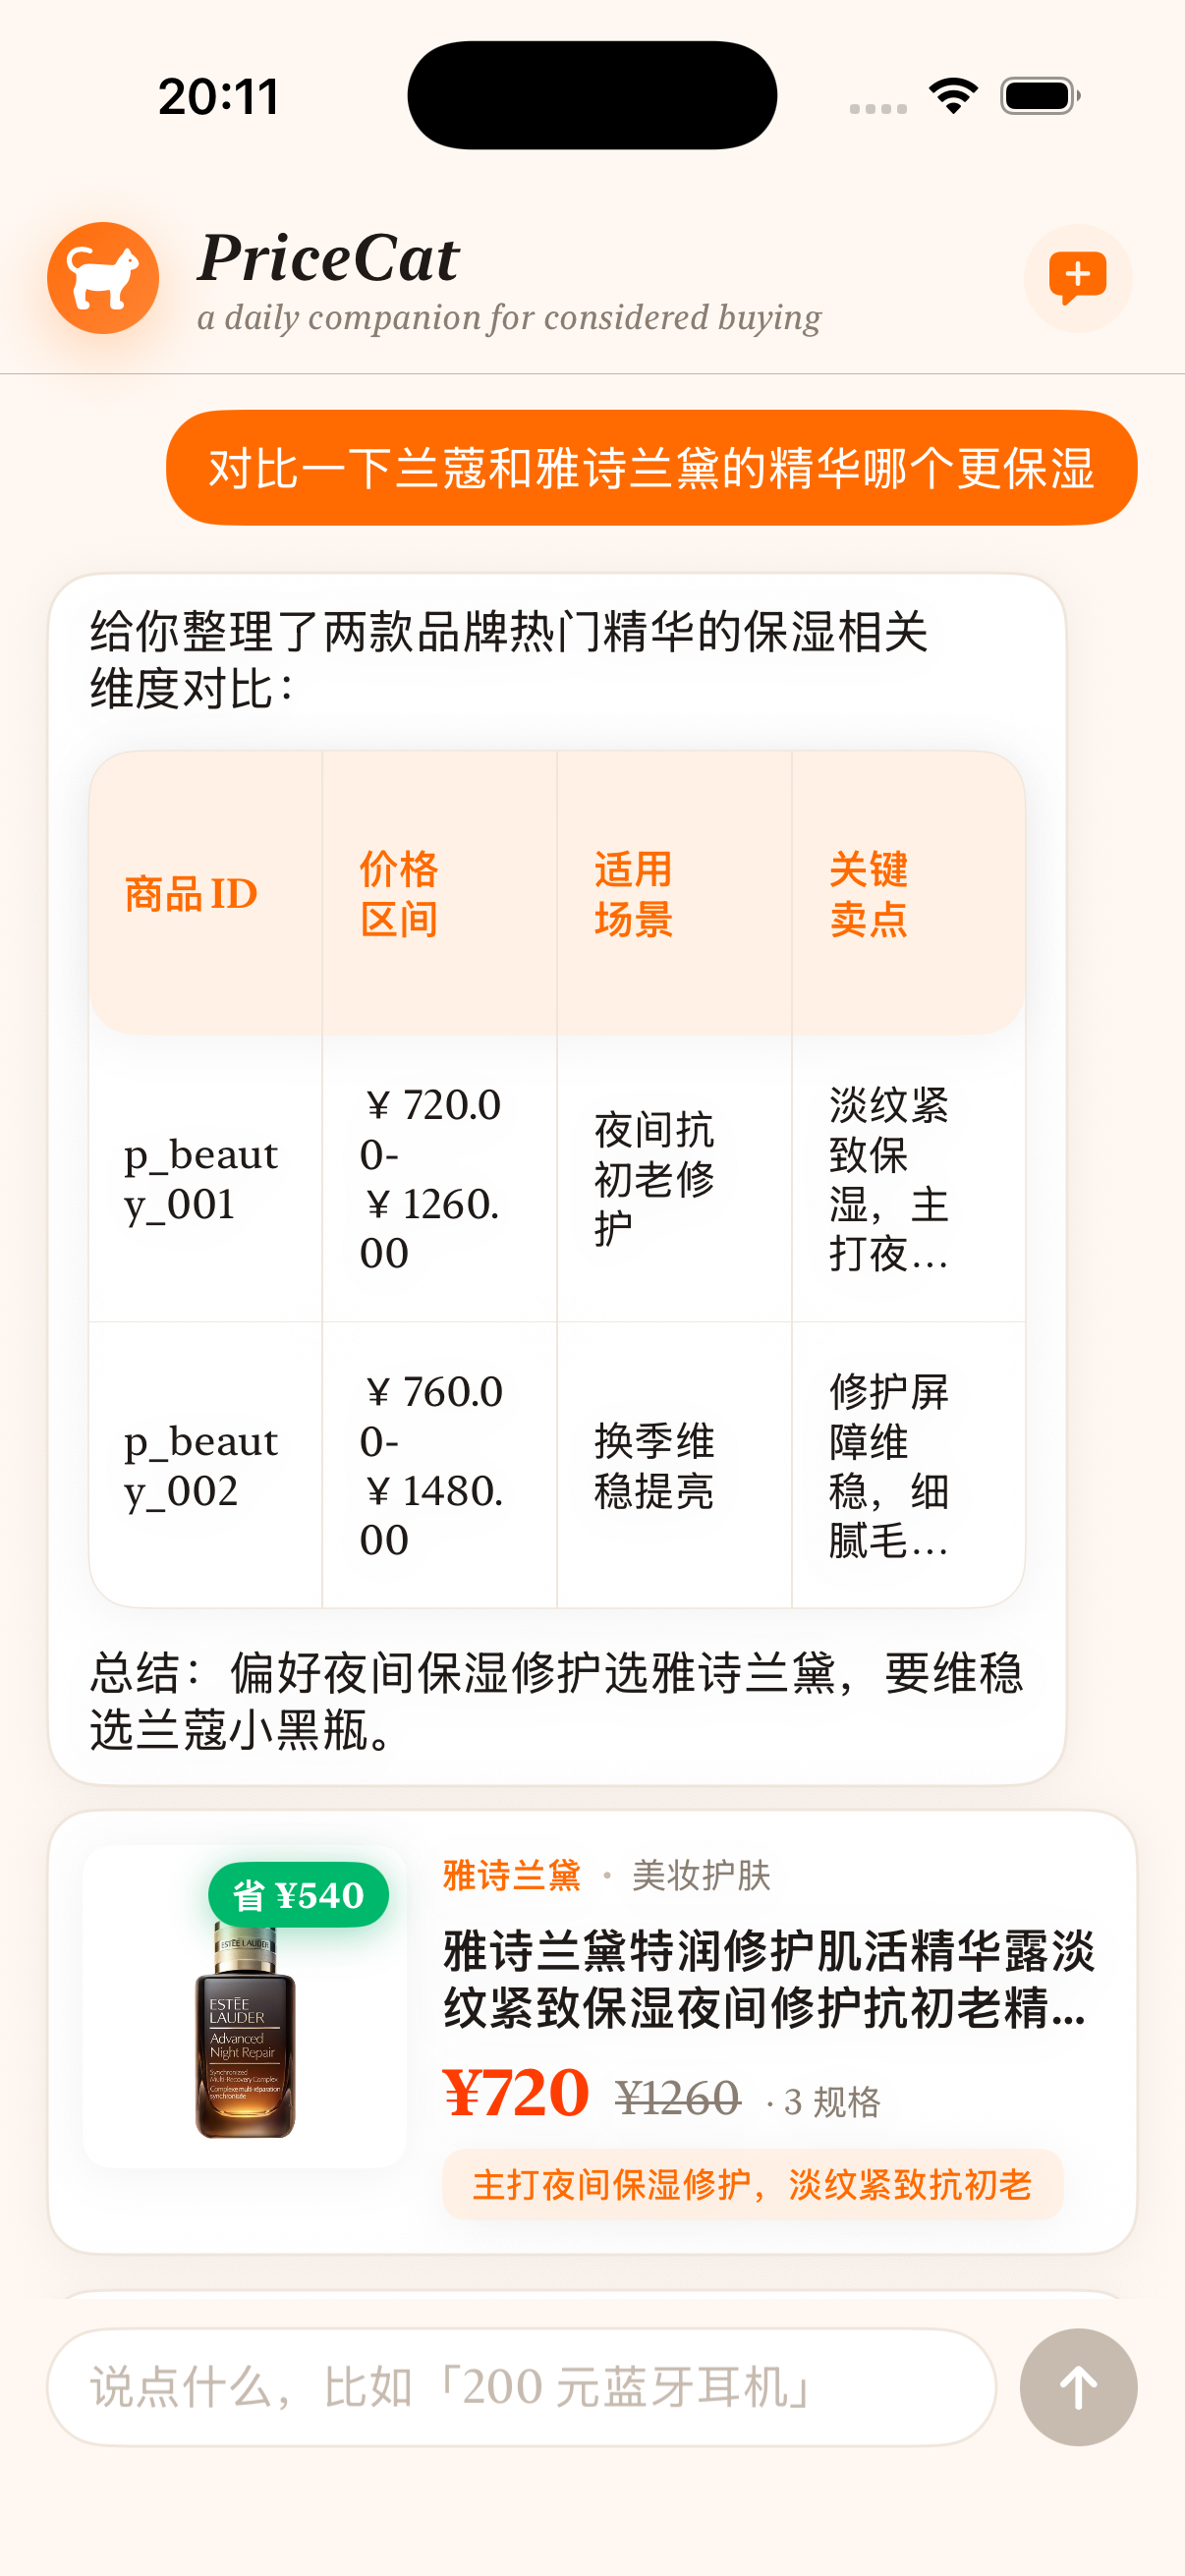
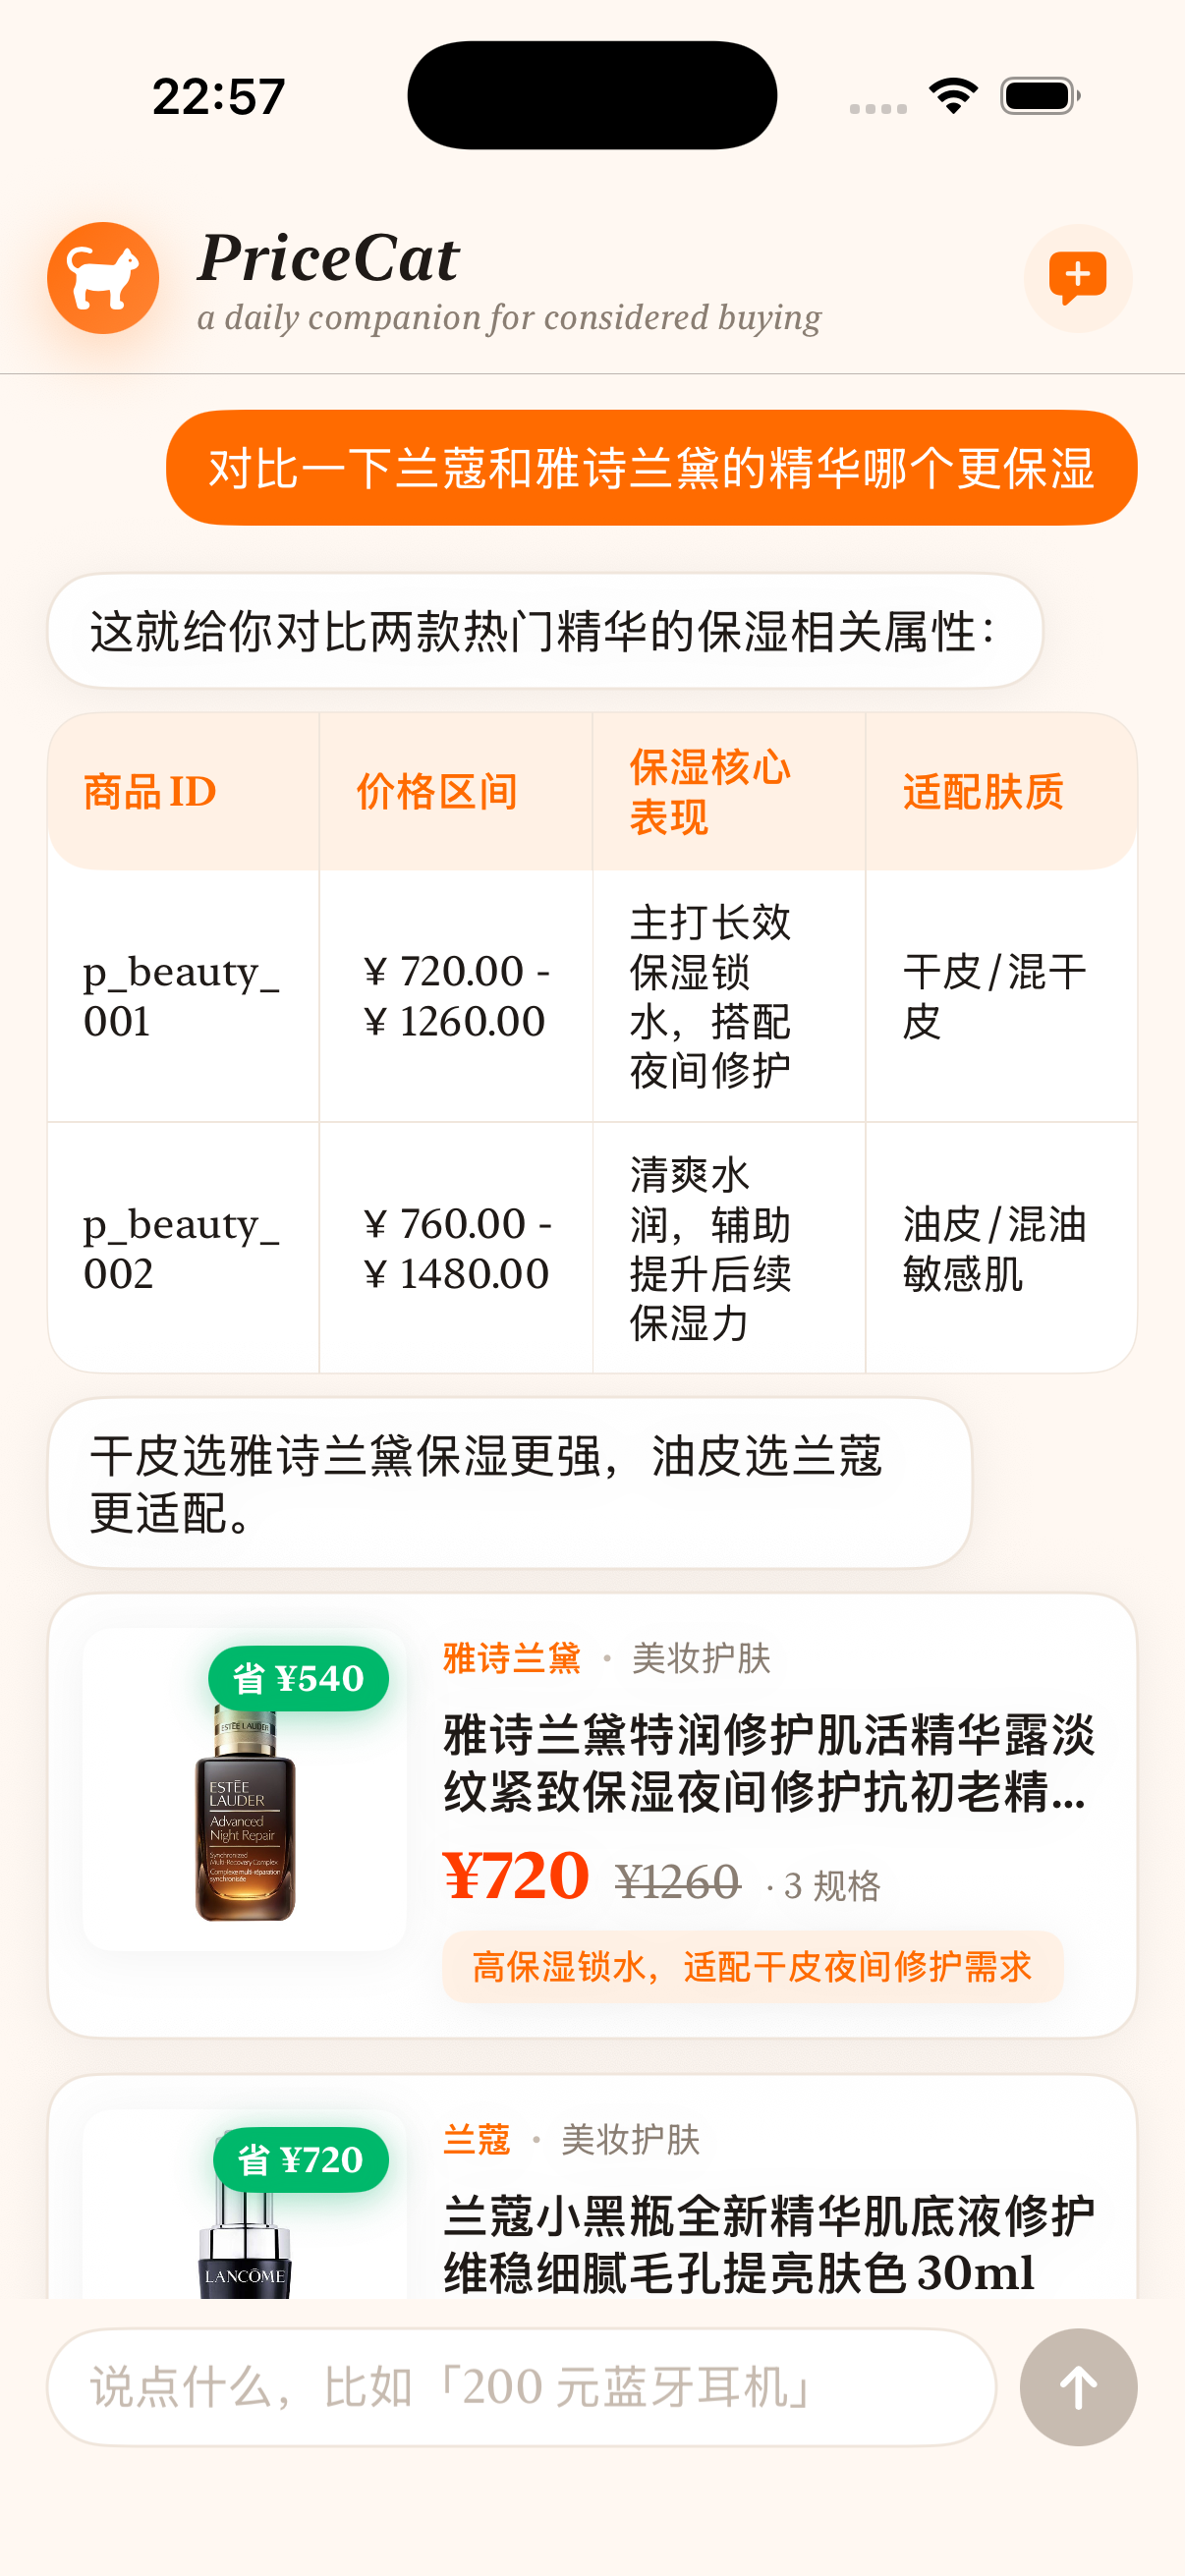
phase3: 表格突破气泡限宽 + parser 支持单 \n 段落表格混排
bug：表格塞在 assistant 气泡里被 Spacer(minLength:24) 挤窄，
中文每字独立换行；同时 LLM 常用单 \n（非 \n\n）连接段落和表格，
旧 parser 按 \n\n 切块导致表格被吞成段落。

修：
1) MessageBubble 把 assistant 消息按 MarkdownBlock 拆分：连续段落塞
   同一气泡，表格独立全宽占满消息列（不再嵌气泡）。
2) MarkdownParser.parse 改成行级扫描：边走边切换"段落 / 表格"状态，
   段落和表格之间无需空行；同时宽松地把"≥2 行同列管道行"也当表格，
   防御 LLM 忘写分隔行。
3) TableBlockView 可见性 internal 让 MessageBubble 直接复用。

新增 / 调整 4 条测试：
- paragraphAndTableSeparatedBySingleNewline：单 \n 连接段+表
- missingSeparatorButPipeRowsStillTreatedAsTable：无分隔行宽容
- singlePipeLineStaysParagraph：单行管道不误判
- 客户端 29/29 全过。

E2E：对比 prompt 实测 4 列表格"商品ID / 价格区间 / 保湿核心表现 /
适用肤质" 完整可读、不再竖排。

Changed region(s): [[0.0307, 0.2162, 0.9204, 0.8959], [0.3068, 0.4325, 0.4602, 0.4943], [0.1227, 0.0309, 0.2454, 0.0618]]

diff --git a/client/ShoppingGuide/Features/Chat/MessageBubble.swift b/client/ShoppingGuide/Features/Chat/MessageBubble.swift
@@ -19,7 +19,13 @@ struct MessageBubble: View {
     var body: some View {
         VStack(alignment: message.role == .user ? .trailing : .leading,
                spacing: Theme.Spacing.s) {
-            bubbleRow
+            // Assistant 消息按 markdown 块拆开："段落组进气泡 / 表格独立全宽"，
+            // 避免长表格被气泡 minLength 限宽挤成竖排的"每字一行"。
+            if message.role == .assistant {
+                assistantContent
+            } else {
+                bubbleRow
+            }
             if !message.productCards.isEmpty {
                 cardsStack
             }
@@ -30,6 +36,95 @@ struct MessageBubble: View {
                 errorRow(notice)
             }
         }
+    }
+
+    // MARK: - Assistant content (split by markdown blocks)
+
+    @ViewBuilder
+    private var assistantContent: some View {
+        let trimmed = message.text.trimmingCharacters(in: .whitespacesAndNewlines)
+        let blocks = MarkdownParser.parse(trimmed)
+        let segments = Self.segregate(blocks: blocks)
+
+        VStack(alignment: .leading, spacing: Theme.Spacing.s) {
+            ForEach(Array(segments.enumerated()), id: \.offset) { _, seg in
+                switch seg {
+                case .paragraphs(let attrs):
+                    // 同一组连续段落塞进同一个气泡，气泡 hug 内容，min 宽=不限
+                    assistantBubble(paragraphs: attrs)
+                case .table(let headers, let rows):
+                    // 表格占消息列全宽 —— 突破气泡的右侧 spacer，让内容能展开
+                    TableBlockView(headers: headers, rows: rows)
+                }
+            }
+            // 流式光标 = 没有段落或最后一块不是段落时，独立放一个
+            if message.isStreaming && !endsWithBubble(segments) {
+                StreamingDot(color: Theme.Palette.brand)
+            }
+        }
+    }
+
+    private func endsWithBubble(_ segments: [MarkdownSegment]) -> Bool {
+        if case .paragraphs = segments.last { return true }
+        return false
+    }
+
+    private func assistantBubble(paragraphs: [AttributedString]) -> some View {
+        HStack(alignment: .top, spacing: 0) {
+            VStack(alignment: .leading, spacing: 8) {
+                ForEach(Array(paragraphs.enumerated()), id: \.offset) { _, p in
+                    Text(p)
+                        .font(Theme.Typo.body())
+                        .foregroundStyle(Theme.Palette.textPrimary)
+                        .fixedSize(horizontal: false, vertical: true)
+                }
+                if message.isStreaming {
+                    StreamingDot(color: Theme.Palette.brand)
+                }
+            }
+            .padding(.horizontal, 14)
+            .padding(.vertical, 10)
+            .background(
+                RoundedRectangle(cornerRadius: Theme.Radius.bubble, style: .continuous)
+                    .fill(Theme.Palette.surface)
+            )
+            .overlay(
+                RoundedRectangle(cornerRadius: Theme.Radius.bubble, style: .continuous)
+                    .stroke(Theme.Palette.border, lineWidth: 1)
+            )
+            .themeShadow(Theme.Shadow.card)
+            Spacer(minLength: Theme.Spacing.xl)
+        }
+    }
+
+    // MARK: - segregate
+
+    enum MarkdownSegment {
+        case paragraphs([AttributedString])
+        case table(headers: [String], rows: [[String]])
+    }
+
+    /// 把 MarkdownBlock 列表压缩为「连续段落组 + 表格」两类 segment，
+    /// 便于按视觉层级渲染：段落进同一气泡、表格独占全宽。
+    private static func segregate(blocks: [MarkdownBlock]) -> [MarkdownSegment] {
+        var out: [MarkdownSegment] = []
+        var buffer: [AttributedString] = []
+        for b in blocks {
+            switch b {
+            case .paragraph(let attr):
+                buffer.append(attr)
+            case .table(let h, let r):
+                if !buffer.isEmpty {
+                    out.append(.paragraphs(buffer))
+                    buffer.removeAll()
+                }
+                out.append(.table(headers: h, rows: r))
+            }
+        }
+        if !buffer.isEmpty {
+            out.append(.paragraphs(buffer))
+        }
+        return out
     }
 
     // MARK: - Bubble

diff --git a/client/ShoppingGuide/Components/MarkdownParser.swift b/client/ShoppingGuide/Components/MarkdownParser.swift
@@ -22,25 +22,65 @@ public enum MarkdownParser {
     public static func parse(_ text: String) -> [MarkdownBlock] {
         guard !text.trimmingCharacters(in: .whitespacesAndNewlines).isEmpty else { return [] }
 
-        // 1. 归一化换行
+        // 归一化换行
         let normalized = text
             .replacingOccurrences(of: "\r\n", with: "\n")
             .replacingOccurrences(of: "\r", with: "\n")
 
-        // 2. 切成按空行分隔的"块"
-        let rawBlocks = normalized
-            .components(separatedBy: "\n\n")
-            .map { $0.trimmingCharacters(in: .whitespaces) }
-            .filter { !$0.isEmpty }
+        // **行级扫描**：LLM 经常把段落和表格只用单 \n 连起来（不是 GFM 标准的
+        // 空行分隔），如果按 \n\n 切块就识别不到。这里改成边走边切换状态。
+        let lines = normalized.split(separator: "\n", omittingEmptySubsequences: false)
+            .map { String($0) }
 
         var out: [MarkdownBlock] = []
-        for raw in rawBlocks {
-            if let table = parseTable(raw) {
-                out.append(table)
-            } else {
-                out.append(.paragraph(parseInline(raw)))
+        var paragraphBuffer: [String] = []
+        var i = 0
+
+        func flushParagraphs() {
+            // 把累积的段落行按空行切成多段
+            let joined = paragraphBuffer.joined(separator: "\n")
+            for part in joined.components(separatedBy: "\n\n") {
+                let trimmed = part.trimmingCharacters(in: .whitespacesAndNewlines)
+                if !trimmed.isEmpty {
+                    out.append(.paragraph(parseInline(trimmed)))
+                }
             }
+            paragraphBuffer.removeAll()
         }
+
+        while i < lines.count {
+            let line = lines[i]
+            // 检测表格起点：当前是表格行 + 下一行也是表格行（且列数一致 / 或下一行是分隔符）
+            if isTableRow(line) && i + 1 < lines.count {
+                let next = lines[i + 1]
+                let isStrict = isSeparatorRow(next)
+                let headerCells = splitTableRow(line)
+                let nextCells = splitTableRow(next)
+                let sameWidth = !isStrict && isTableRow(next)
+                    && headerCells.count > 0 && headerCells.count == nextCells.count
+                if isStrict || sameWidth {
+                    // 收集连续表格行（含 header / separator / data）
+                    flushParagraphs()
+                    var tableLines: [String] = [line]
+                    var j = i + 1
+                    while j < lines.count, isTableRow(lines[j]) {
+                        tableLines.append(lines[j])
+                        j += 1
+                    }
+                    if let block = parseTable(tableLines.joined(separator: "\n")) {
+                        out.append(block)
+                    } else {
+                        // 极端 fallback：当段落
+                        paragraphBuffer.append(contentsOf: tableLines)
+                    }
+                    i = j
+                    continue
+                }
+            }
+            paragraphBuffer.append(line)
+            i += 1
+        }
+        flushParagraphs()
         return out
     }
 
@@ -49,19 +89,31 @@ public enum MarkdownParser {
     private static func parseTable(_ raw: String) -> MarkdownBlock? {
         let lines = raw.split(separator: "\n", omittingEmptySubsequences: false).map { String($0) }
         guard lines.count >= 2 else { return nil }
-        // 至少前两行：header + separator
+        // 第 0 行必须看起来像表格行（包含 |）
         guard isTableRow(lines[0]) else { return nil }
-        guard isSeparatorRow(lines[1]) else { return nil }
+
+        // 优先严格模式：第 1 行是 `| --- | --- |` 分隔行（GFM 标准）
+        let strictMode = isSeparatorRow(lines[1])
+
+        // 宽松模式：LLM 经常忘写分隔行。只要后续至少还有 1 行同样是表格行
+        // 且列数一致，就当表格处理（header = 第 0 行）。
+        if !strictMode {
+            guard isTableRow(lines[1]) else { return nil }
+            let h = splitTableRow(lines[0]).count
+            let r = splitTableRow(lines[1]).count
+            guard h > 0 && h == r else { return nil }
+        }
 
         let headers = splitTableRow(lines[0])
         let columnCount = headers.count
         guard columnCount > 0 else { return nil }
 
+        let dataStartIdx = strictMode ? 2 : 1
         var rows: [[String]] = []
-        for line in lines.dropFirst(2) {
+        for line in lines.dropFirst(dataStartIdx) {
             guard isTableRow(line) else { continue }
+            // 宽松模式下要排除"误把另一段管道行当数据"的情况，但列数不匹配也保留补齐
             var cells = splitTableRow(line)
-            // 缺位补空，多余截断 —— 流式中途的半行也能稳
             if cells.count < columnCount {
                 cells.append(contentsOf: Array(repeating: "", count: columnCount - cells.count))
             } else if cells.count > columnCount {

diff --git a/client/Tests/ShoppingGuideKitTests/MarkdownParserTests.swift b/client/Tests/ShoppingGuideKitTests/MarkdownParserTests.swift
@@ -68,14 +68,43 @@ struct MarkdownParserTests {
         #expect(rows == [["1", "2"]])
     }
 
-    @Test func missingSeparatorTreatedAsParagraph() {
-        // 缺少 | --- | --- | 分隔行：不当表格，回退成多段段落
+    @Test func missingSeparatorButPipeRowsStillTreatedAsTable() {
+        // LLM 经常忘写 `| --- | --- |` 分隔行；只要管道行 ≥ 2 且列数一致，
+        // parser 宽松地把第一行当 header 处理（防御性 UX，不让用户看到原始管道）。
         let md = """
         | A | B |
         | 1 | 2 |
         """
         let blocks = MarkdownParser.parse(md)
-        if case .table = blocks[0] { Issue.record("should not be a table without separator") }
+        guard case let .table(headers, rows) = blocks[0] else { Issue.record("expected table"); return }
+        #expect(headers == ["A", "B"])
+        #expect(rows == [["1", "2"]])
+    }
+
+    @Test func paragraphAndTableSeparatedBySingleNewline() {
+        // 真实 LLM 输出场景：引导段 + \n + 表格，中间没有空行
+        let md = """
+        我整理了两款精华的对比：
+        | 商品 | 价格 |
+        | --- | --- |
+        | A | ¥99 |
+        总结：选 A。
+        """
+        let blocks = MarkdownParser.parse(md)
+        #expect(blocks.count == 3)
+        if case let .paragraph(p) = blocks[0] { #expect(String(p.characters) == "我整理了两款精华的对比：") } else { Issue.record("0 not paragraph") }
+        if case let .table(h, r) = blocks[1] {
+            #expect(h == ["商品", "价格"])
+            #expect(r == [["A", "¥99"]])
+        } else { Issue.record("1 not table") }
+        if case let .paragraph(p) = blocks[2] { #expect(String(p.characters) == "总结：选 A。") } else { Issue.record("2 not paragraph") }
+    }
+
+    @Test func singlePipeLineStaysParagraph() {
+        // 单行带管道不是表格，免得把"小贴士 | 注意事项"当表格头
+        let md = "提示 | 注意事项"
+        let blocks = MarkdownParser.parse(md)
+        if case .table = blocks[0] { Issue.record("single line should stay paragraph") }
     }
 
     @Test func unclosedTableRowDoesNotCrash() {

diff --git a/client/ShoppingGuide/Components/MarkdownView.swift b/client/ShoppingGuide/Components/MarkdownView.swift
@@ -32,7 +32,10 @@ struct MarkdownView: View {
 
 // MARK: - Table block
 
-private struct TableBlockView: View {
+/// 极简表格组件：表头浅橙底 / hairline 列&行分隔 / 杂志衢线。
+/// 文件可见性 `internal` 让 MessageBubble 可直接复用，无需通过 MarkdownView 中转，
+/// 因为长表格需要突破气泡限宽独立放置。
+struct TableBlockView: View {
     let headers: [String]
     let rows: [[String]]
 